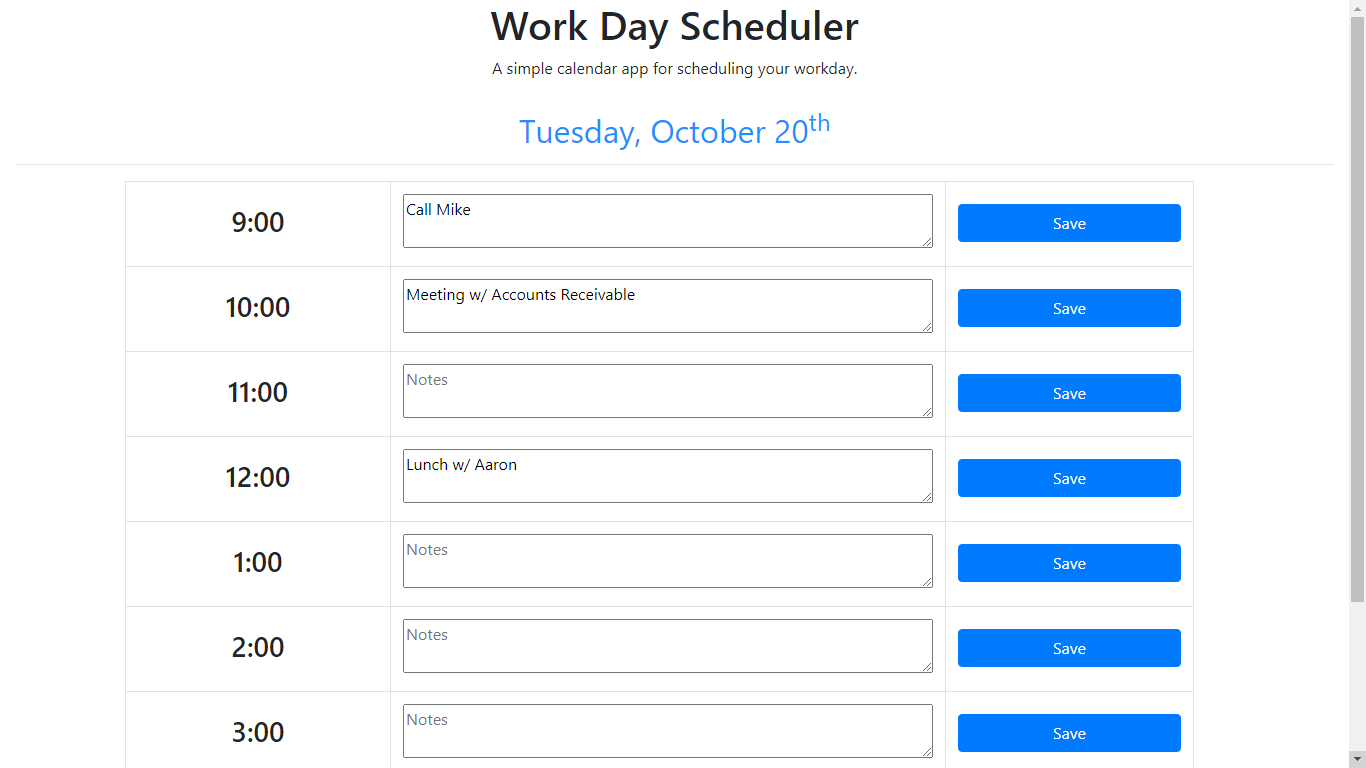
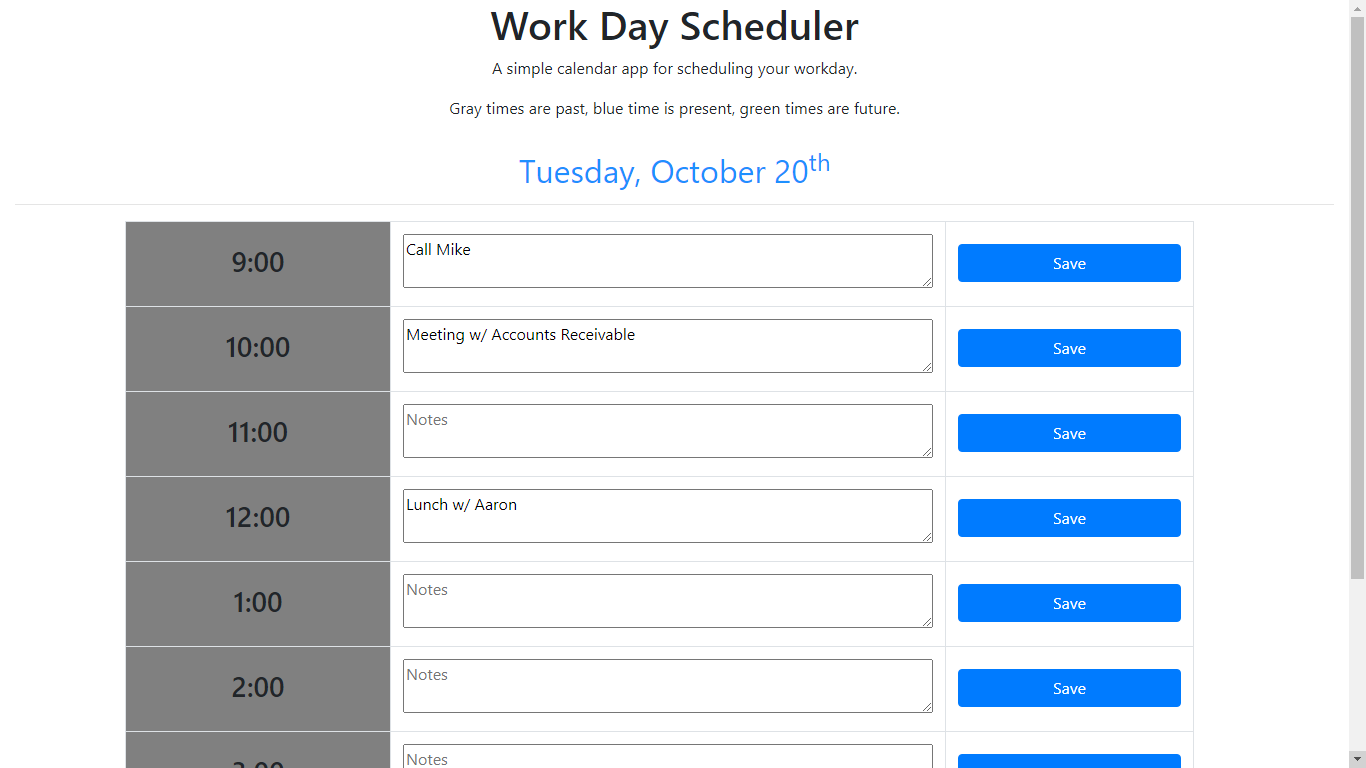
Added color coding to calendar, updated README

Changed region(s): [[0.0922, 0.25, 0.8917, 1.0], [0.3382, 0.125, 0.6457, 0.25], [0.9839, 0.75, 1.0, 0.7812]]

diff --git a/index.html b/index.html
@@ -12,6 +12,7 @@
         <h1>Work Day Scheduler</h1>
 
         <p>A simple calendar app for scheduling your workday.</p>
+        <p>Gray times are past, blue time is present, green times are future.</p>
     </header>
 
     <!--This is outside of header so that the sticky attribute will work-->
@@ -29,7 +30,7 @@
             <table class="table table-bordered">
                 <tbody>
                     <tr>
-                        <td><h3>9:00</h3></td>
+                        <td id="time-nine" data-index="9"><h3>9:00</h3></td>
                         <td>
 
                             <!--ID is used to automatically populate text field w/ stored notes-->
@@ -40,7 +41,7 @@
                     </tr>
 
                     <tr>
-                        <td><h3>10:00</h3></td>
+                        <td id="time-ten" data-index="10"><h3>10:00</h3></td>
                         <td><textarea id="ten" placeholder="Notes"></textarea>
                         <td>
                             <button type="button" class="btn btn-primary">Save</button>
@@ -48,7 +49,7 @@
                     </tr>
 
                     <tr>
-                        <td><h3>11:00</h3></td>
+                        <td id="time-eleven" data-index="11"><h3>11:00</h3></td>
                         <td><textarea id="eleven" placeholder="Notes"></textarea>
                         <td>
                             <button type="button" class="btn btn-primary">Save</button>
@@ -56,7 +57,7 @@
                     </tr>
 
                     <tr>
-                        <td><h3>12:00</h3></td>
+                        <td id="time-twelve" data-index="12"><h3>12:00</h3></td>
                         <td><textarea id="twelve" placeholder="Notes"></textarea>
                         <td>
                             <button type="button" class="btn btn-primary">Save</button>
@@ -64,7 +65,7 @@
                     </tr>
 
                     <tr>
-                        <td><h3>1:00</h3></td>
+                        <td id="time-one" data-index="13"><h3>1:00</h3></td>
                         <td><textarea id="one" placeholder="Notes"></textarea>
                         <td>
                             <button type="button" class="btn btn-primary">Save</button>
@@ -72,7 +73,7 @@
                     </tr>
 
                     <tr>
-                        <td><h3>2:00</h3></td>
+                        <td id="time-two" data-index="14"><h3>2:00</h3></td>
                         <td><textarea id="two" placeholder="Notes"></textarea>
                         <td>
                             <button type="button" class="btn btn-primary">Save</button>
@@ -80,7 +81,7 @@
                     </tr>
 
                     <tr>
-                        <td><h3>3:00</h3></td>
+                        <td id="time-three" data-index="15"><h3>3:00</h3></td>
                         <td><textarea id="three" placeholder="Notes"></textarea>
                         <td>
                             <button type="button" class="btn btn-primary">Save</button>
@@ -88,7 +89,7 @@
                     </tr>
 
                     <tr>
-                        <td><h3>4:00</h3></td>
+                        <td id="time-four" data-index="16"><h3>4:00</h3></td>
                         <td><textarea id="four" placeholder="Notes"></textarea>
                         <td>
                             <button type="button" class="btn btn-primary">Save</button>
@@ -96,7 +97,7 @@
                     </tr>
 
                     <tr>
-                        <td><h3>5:00</h3></td>
+                        <td id="time-five" data-index="17"><h3>5:00</h3></td>
                         <td><textarea id="five" placeholder="Notes"></textarea>
                         <td>
                             <button type="button" class="btn btn-primary">Save</button>

diff --git a/script.js b/script.js
@@ -8,8 +8,9 @@ var monthList  = ["January", "February", "March", "April", "May", "June", "July"
 var superScript;
 var workHours = [9, 10, 11, 12, 1, 2, 3, 4, 5];
 var button = $("button");
+var hourString = JSON.stringify(d.getHours());
 
-// This var allows init() to auto-populate Notes fields w/ a for loop
+// This array allows init() to auto-populate Notes fields w/ a for loop
 var textBoxes = [
     $("#nine"),
     $("#ten"),
@@ -20,6 +21,19 @@ var textBoxes = [
     $("#three"),
     $("#four"),
     $("#five")
+];
+
+// Array to automatically change color of time elements on calendar
+var timeBoxes = [
+    $("#time-nine"),
+    $("#time-ten"),
+    $("#time-eleven"),
+    $("#time-twelve"),
+    $("#time-one"),
+    $("#time-two"),
+    $("#time-three"),
+    $("#time-four"),
+    $("#time-five")
 ];
 var textBoxVal = [];
 
@@ -45,8 +59,23 @@ function init() {
     };
 };
 
+
+// Gets the current hour, assigns a color to time element based on the hour
+function hourColorCode() {
+    for (i = 0; i < timeBoxes.length; i++) {
+        if (d.getHours() > parseInt(timeBoxes[i].attr("data-index"))) {
+            timeBoxes[i].css("background-color", "gray");
+        } else if (d.getHours() === parseInt(timeBoxes[i].attr("data-index"))) {
+            timeBoxes[i].css("background-color", "lightblue");
+        } else {
+            timeBoxes[i].css("background-color", "lightgreen");
+        };
+    };
+};
+
 init();
 superScriptWrite();
+hourColorCode();
 
 // Displays today's date in a clean format
 today.text(dayList[day] + ", " + monthList[month] + " " + date);
@@ -67,3 +96,10 @@ button.on('click', function(event) {
     // Sets whatever was typed in Notes to local storage, ties it to the correct text field by giving it same key name as text field's ID
     localStorage.setItem(inputAttr, input.val());
 });
+
+console.log("The hour string: " + hourString);
+console.log("The current hour value: " + d.getHours());
+console.log("The bkg color of the nine block: " + $("#time-nine").css("background-color"));
+console.log("The data index attr of the nine block: " + $("#time-nine").attr("data-index"));
+console.log("parse int on the data-index of time block nine: " + parseInt($("#time-nine").attr("data-index")));
+console.log(d.getHours() > parseInt(timeBoxes[0].attr("data-index")));

diff --git a/README.md b/README.md
@@ -24,4 +24,5 @@ Suffix function makes sure that the date has the proper suffix (eg 24th, 2nd, 23
 Color function checks current time, changes style of time element in calendar depending on whether that time has passed, that time is current, or that time is in the future
 
 
-Screencaps of working website are included in screencap folder
+Screencaps of working website are included in screencap folder.
+Second screencap in particular demonstrates all three colors and sticky date div
